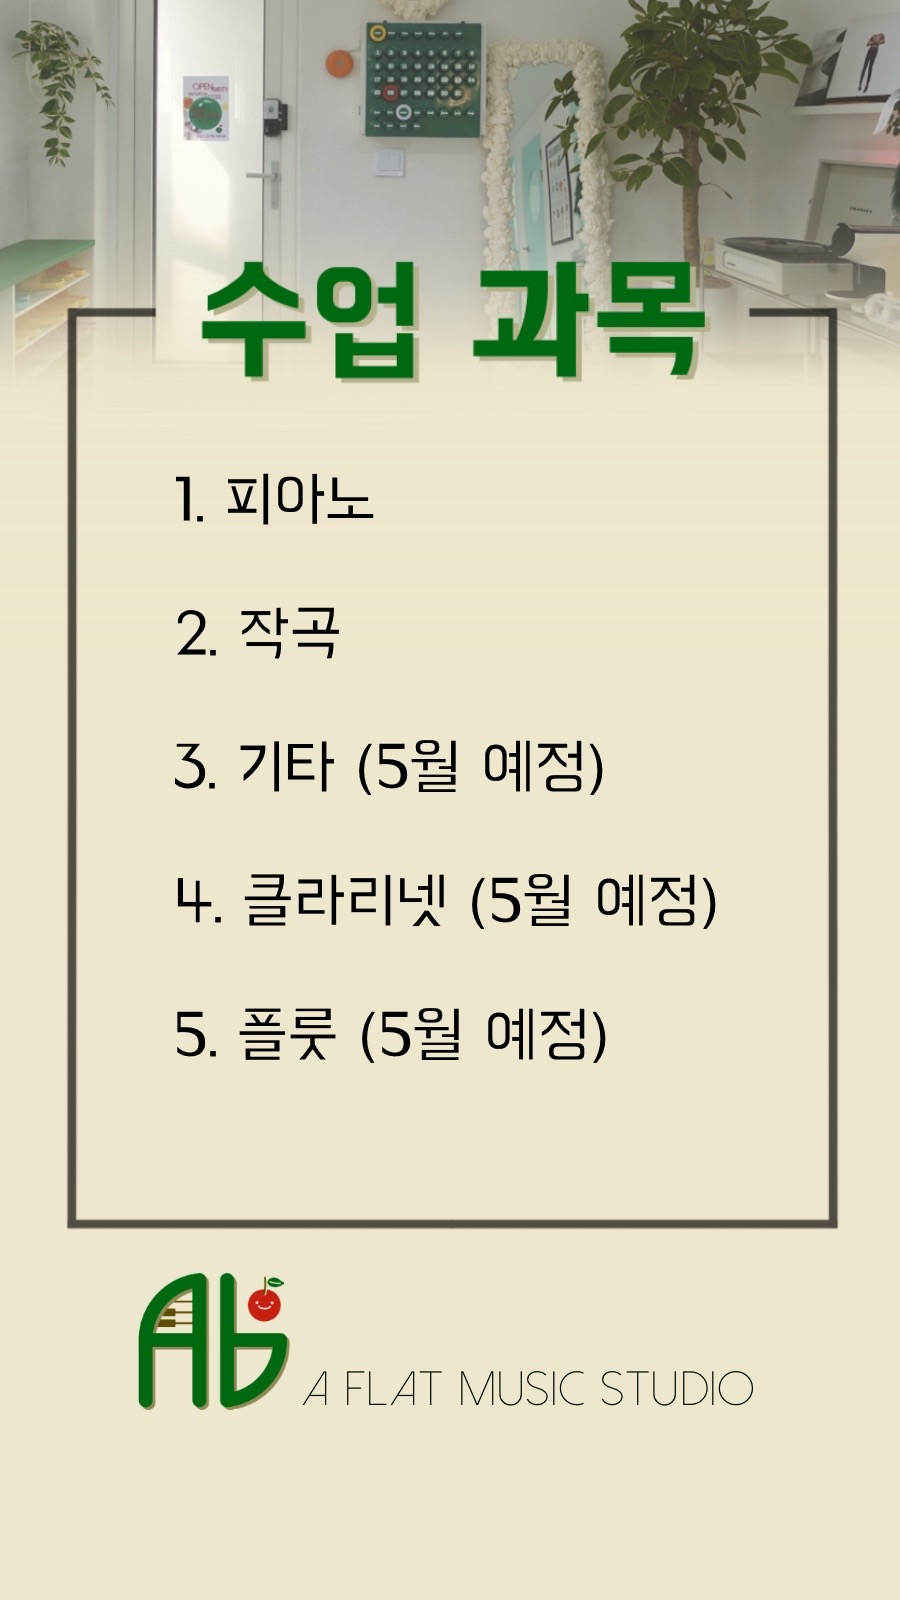
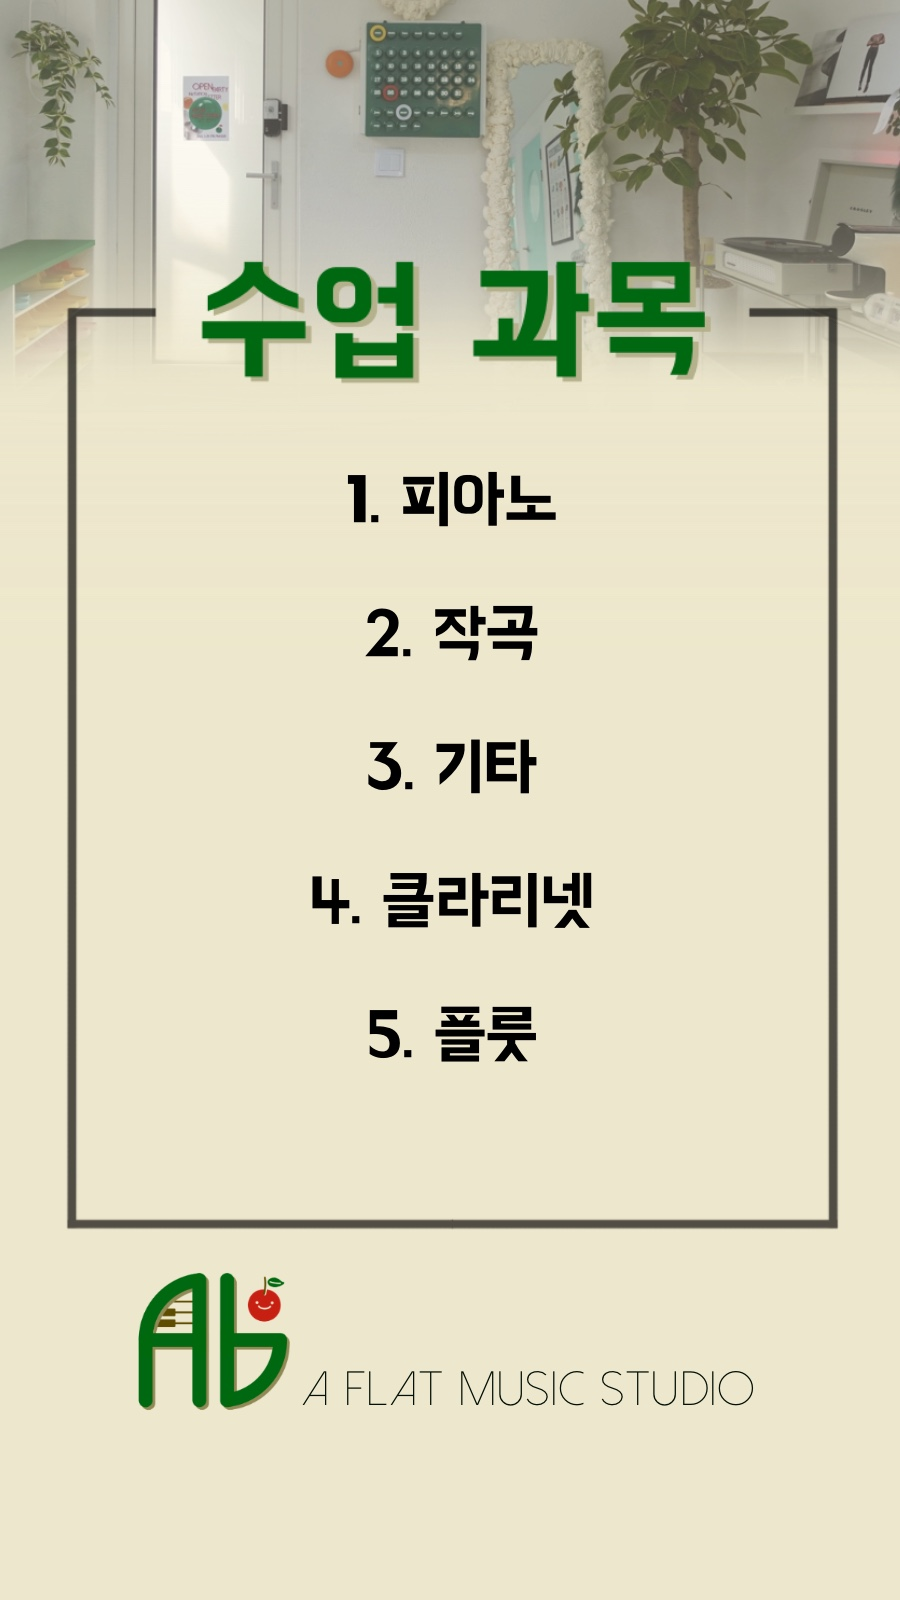
chore: class&lesson 사진추가

diff --git a/component/lesson_explain.tsx b/component/lesson_explain.tsx
@@ -5,9 +5,14 @@ import section from '@/static/section.jpg';
 import piano_class from '@/static/piano_class.jpg';
 import piano_lesson from '@/static/piano_lesson.jpg';
 import composition from '@/static/composition.jpg';
+import guitar_lesson from '@/static/guitar_lesson.jpg';
+import guitar_advlesson from '@/static/guitar_advlesson.jpg';
+import clarinet_lesson from '@/static/clarinet_lesson.jpg';
+import flute_lesson from '@/static/flute_lesson.jpg';
+
 
 function lesson_explain() {
-  const picArr = [section, piano_lesson, piano_class, composition];
+  const picArr = [section, piano_lesson, piano_class, composition, guitar_lesson, guitar_advlesson, clarinet_lesson, flute_lesson];
   const [picIdx, setPicIdx] = useState(0);
 
   const picLeftChange=()=>{

diff --git a/component/reservationForm.tsx b/component/reservationForm.tsx
@@ -206,7 +206,6 @@ export default function reservationForm() {
     else{
       e.preventDefault();
       setModalState(true);
-      console.log("show modal");
     }
   }
 
